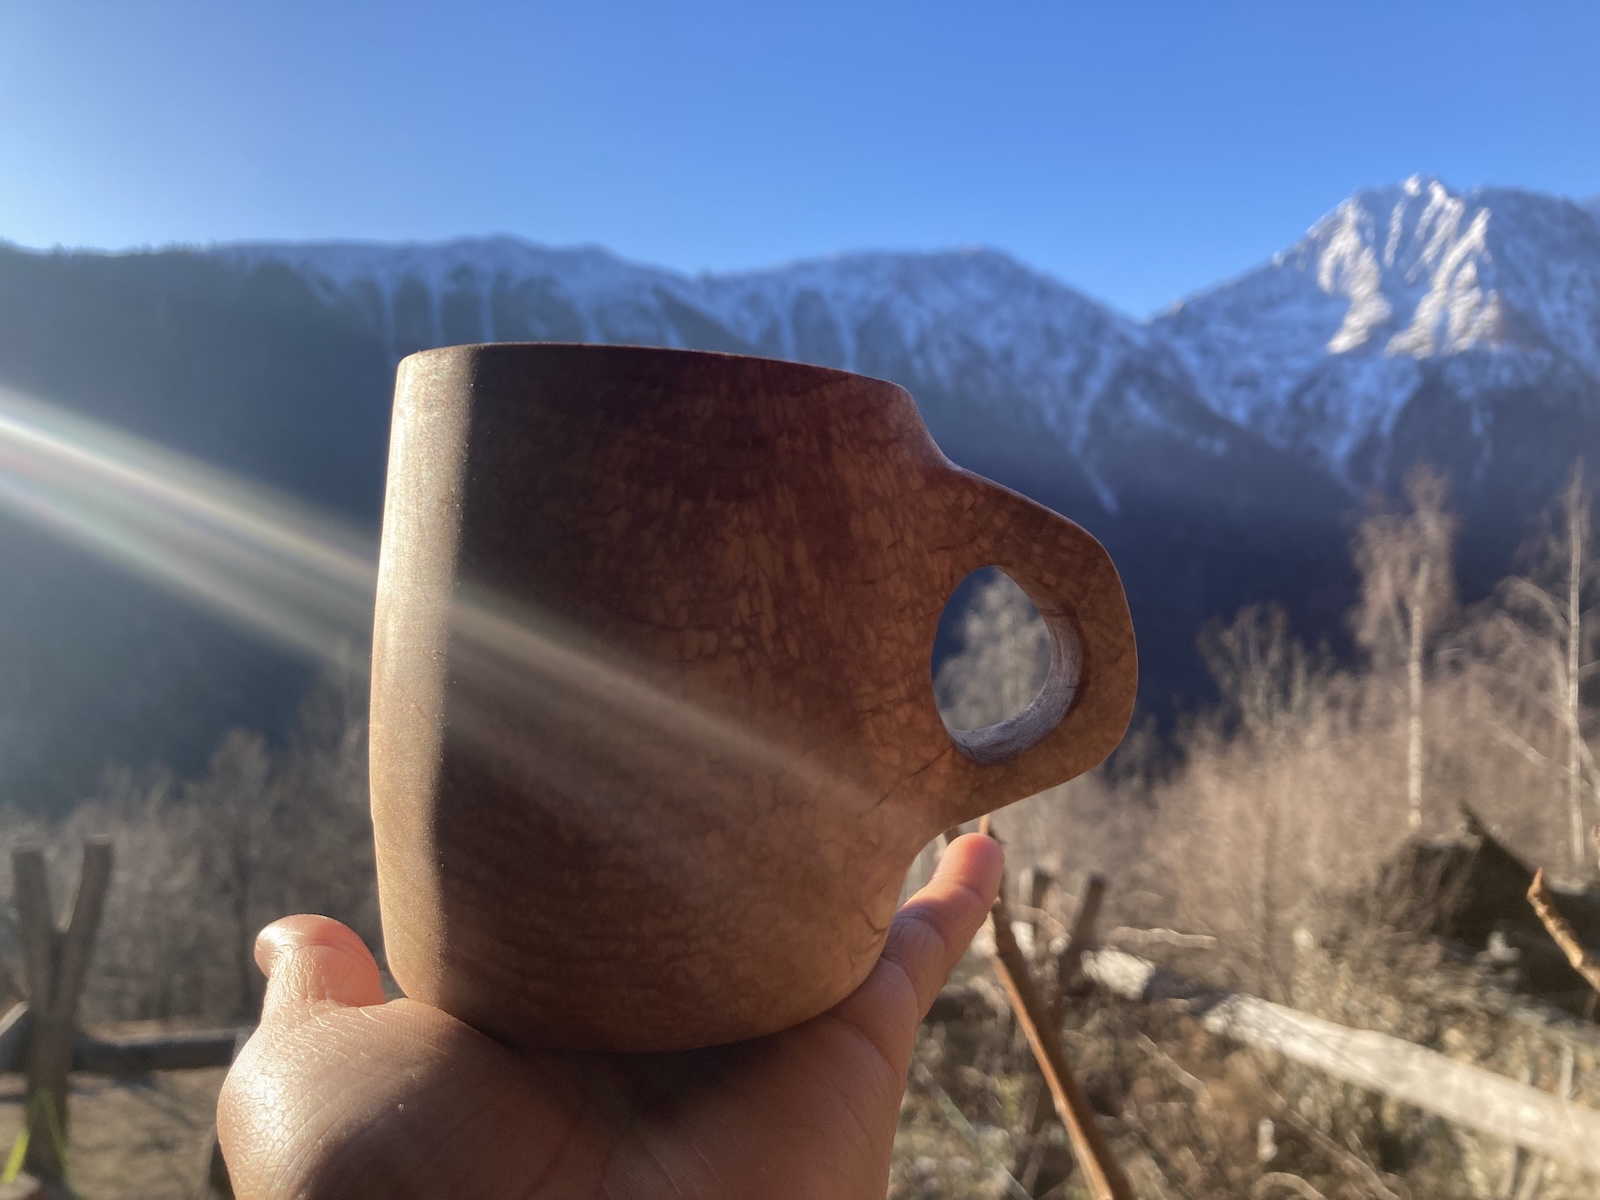
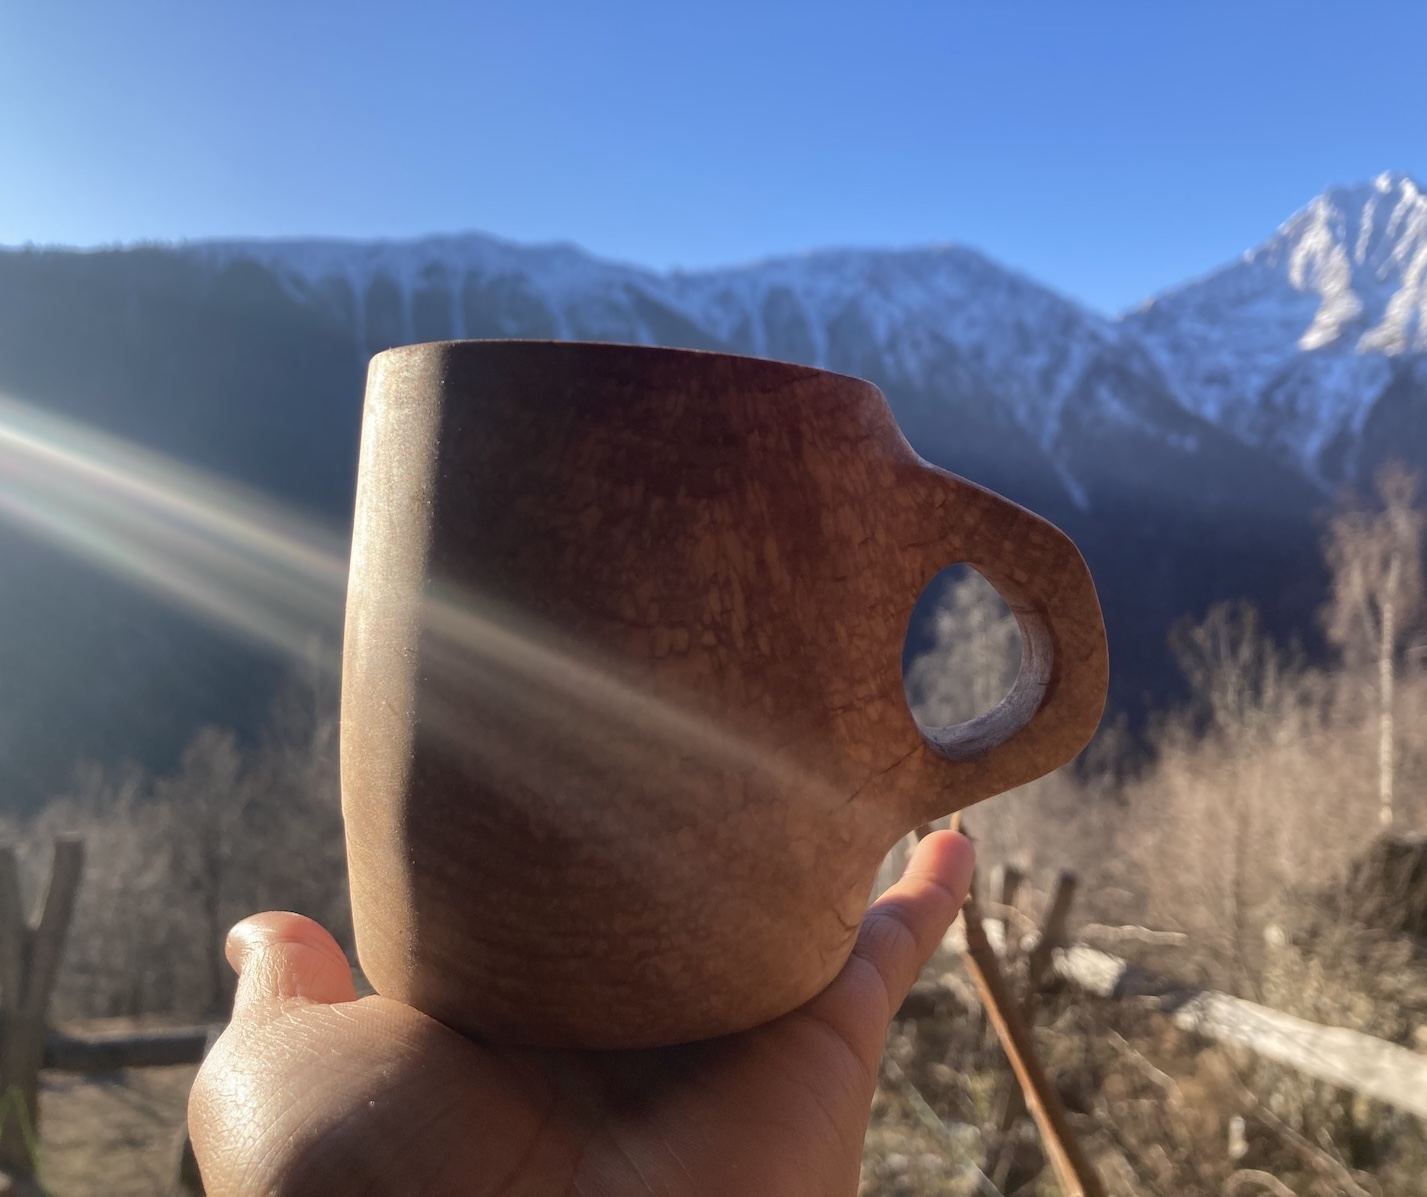
craft n

diff --git a/content/crafting.md b/content/crafting.md
@@ -69,9 +69,9 @@ layout: "single"
 <div class="artifact-image-wrapper">
 <img src="/pianezzo/images/craft-teaset.jpg" alt="teaset">
 </div>
-<div class="Teaset">
+<div class="artifact-content">
 <span class="artifact-tag">BATCH 01</span>
-<h3>Kitchen Utensils</h3>
+<h3>Tea set</h3>
 <p>The rustic wooden jar locks in the tea’s aroma, poured into a cup of that very same texture, and savored.</p>
 <div class="artifact-footer">
 <span class="artifact-status">Bespoke</span>